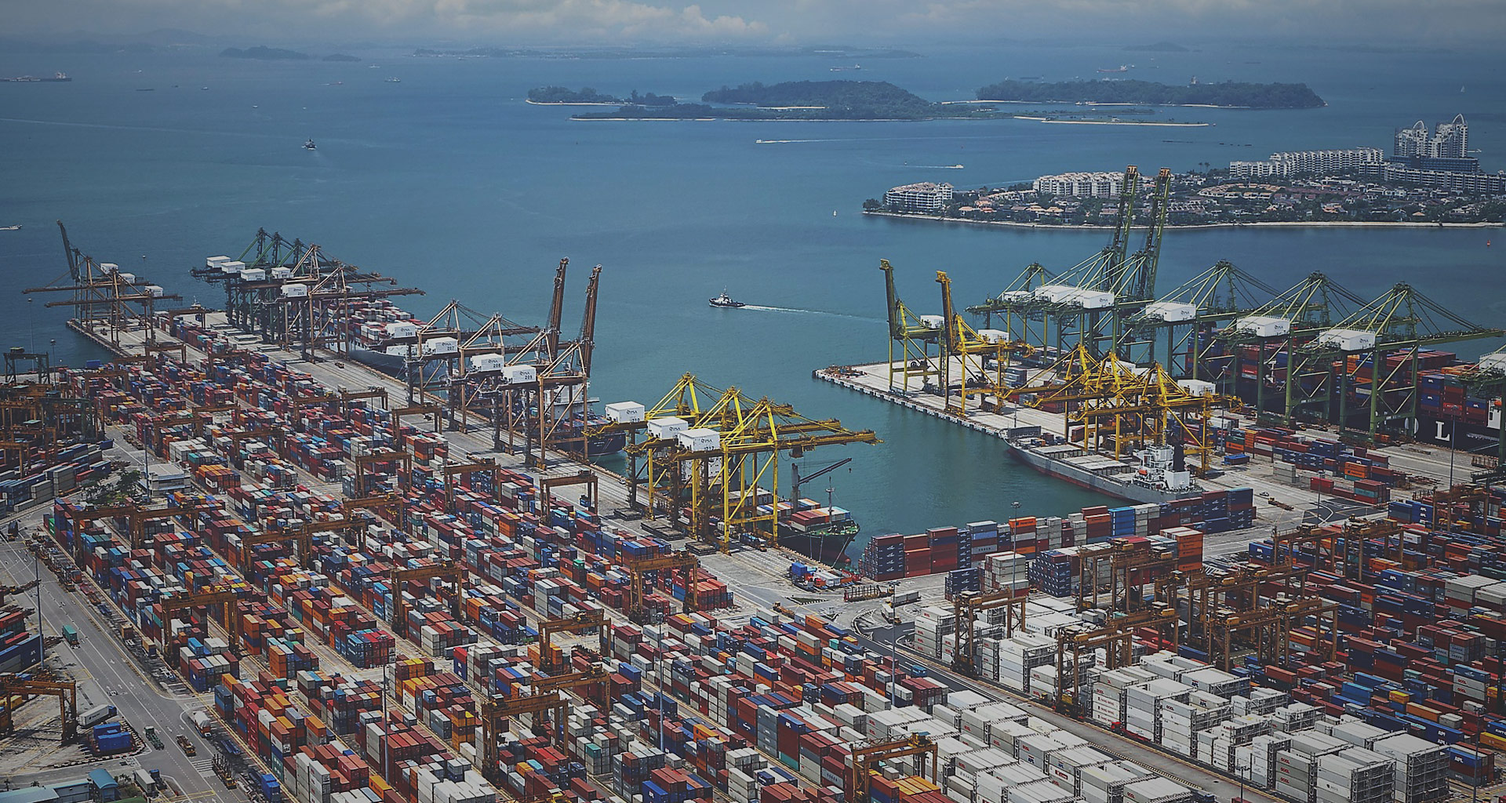
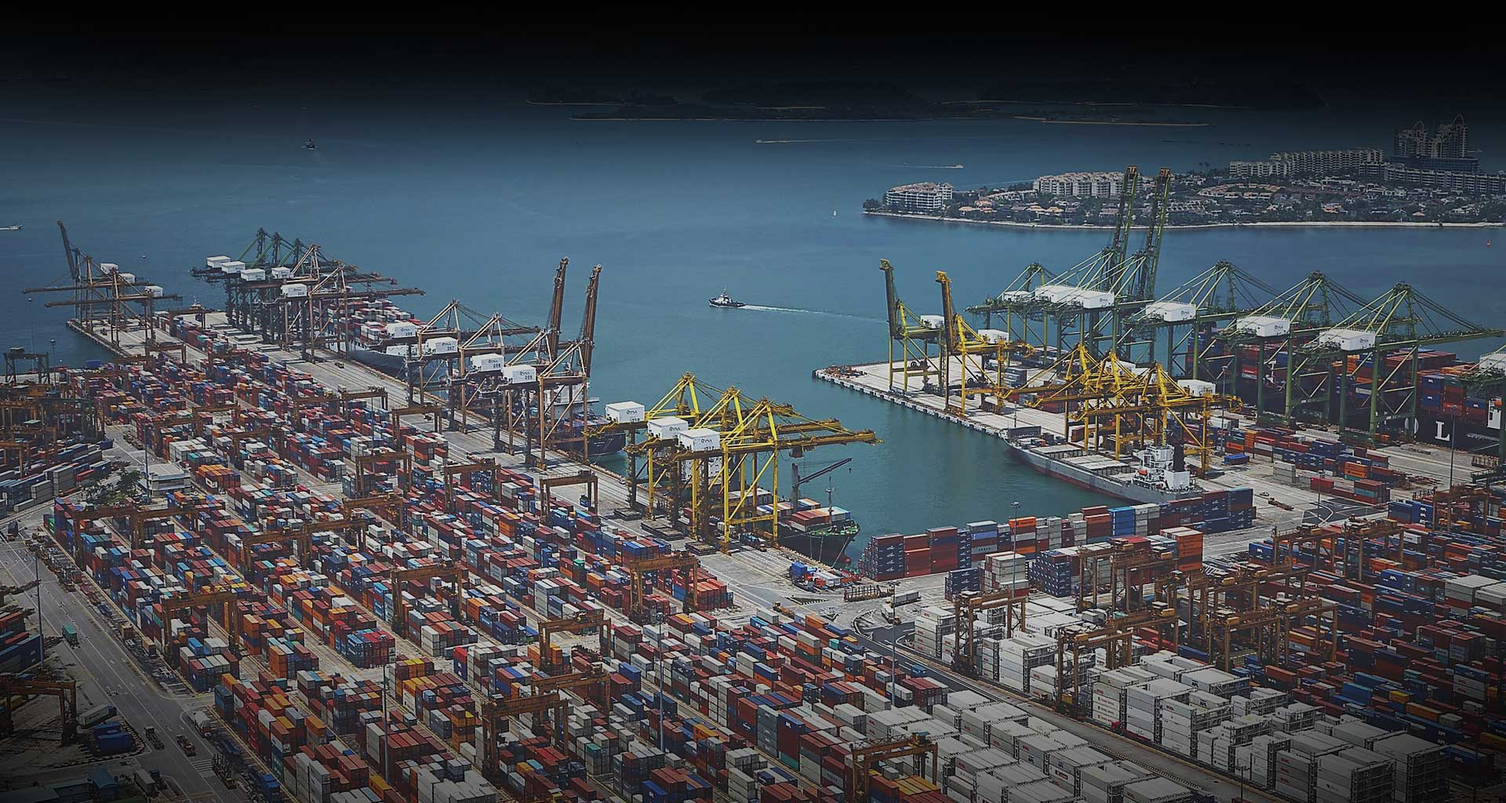
Added Images

diff --git a/public/css/style.css b/public/css/style.css
@@ -58,6 +58,44 @@ a:hover {
     background-size: cover;
 }
 /*=========================*/
+/*=========================*/
+/* M  A  I  N  C  A  R  O  U  S  E  L*/
+.main-bg-truck{
+    background-image: url("/img/broadcast/trucks.jpg");
+    background-size: cover;
+    height: 75vh;
+}
+.main-bg-ocean{
+    background-image: url("/img/broadcast/containers.jpg");
+    background-size: cover;
+    height: 75vh;
+}
+.main-bg-air{
+    background-image: url("/img/broadcast/air.jpg");
+    background-size: cover;
+    height: 75vh;
+}
+.main-bg-warehouse{
+    background-image: url("/img/broadcast/warehouse.jpg");
+    background-size: cover;
+    height: 75vh;
+}
+.bg-caption {
+    position: relative;
+    top: 75%;
+}
+.big-headings {
+    color: #f5f5f5 ;
+    text-shadow: 0px 0px 16px #5a5a5a;
+    font-size: 4.4vw ;
+}
+.big-captions {
+    color: #f5f5f5 ;
+    text-shadow: 0px 0px 16px #5a5a5a;
+    font-size: 2.4vw;
+}
+
+/*=========================*/
 
 html, body {
     background-color: #f5f5f5;
@@ -66,10 +104,15 @@ html, body {
     font-weight: 400;
     height: 100vh;
     margin: 0;
+    cursor: default;
 }
 
 .full-height {
     height: 100vh;
+}
+
+.pie-height {
+    height: 75vh;
 }
 
 .half-height {

diff --git a/public/js/main.js b/public/js/main.js
@@ -1,0 +1,10 @@
+// Custom JS
+
+// radeanf@gmail.com
+
+
+var heading = document.getElementById("heading");
+var subHeading = document.getElementById("subHeading");
+
+// TweenMax.to(heading, 6,{ opacity: 0})
+// TweenMax.to(subHeading, 10,{ opacity: 0})

diff --git a/resources/views/home.blade.php b/resources/views/home.blade.php
@@ -6,16 +6,38 @@
     <div class="full-screen" data-ride="carousel">
         <div class="tab-content" id="myTabContent">
             <div class="tab-pane fade show active" id="truck" role="tabpanel" aria-labelledby="truck-tab">
-                <img class="d-block w-100" src="img/broadcast/trucks-cover.jpg" alt="First slide">
+                <div class="d-block main-bg-truck text-center">
+                    <div class="d-none d-md-block mx-auto bg-caption">
+                        <h5 id="heading" class="big-headings">Trucks </h5>
+                        <p id="subHeading" class="big-captions">Captions</p>
+                    </div>
+                </div>
+<!--                <img class="d-block w-100" src="img/broadcast/trucks.jpg" alt="First slide">-->
+<!--                <h3 class="mx-auto " >Heading</h3>-->
             </div>
             <div class="tab-pane fade" id="air" role="tabpanel" aria-labelledby="air-tab">
-                <img class="d-block w-100" src="img/broadcast/shipping.jpg" alt="Second slide">
+                <div class="d-block main-bg-air text-center">
+                    <div class="d-none d-md-block mx-auto bg-caption">
+                        <h5 id="heading" class="big-headings">Planes</h5>
+                        <p id="subHeading" class="big-captions">Captions</p>
+                    </div>
+                </div>
             </div>
             <div class="tab-pane fade" id="ocean" role="tabpanel" aria-labelledby="ocean-tab">
-                <img class="d-block w-100" src="img/broadcast/containers.jpg" alt="Third slide">
+                <div class="d-block main-bg-ocean text-center">
+                    <div class="d-none d-md-block mx-auto bg-caption">
+                        <h5 id="heading" class="big-headings">Containers </h5>
+                        <p id="subHeading" class="big-captions">Captions</p>
+                    </div>
+                </div>
             </div>
             <div class="tab-pane fade" id="warehouse" role="tabpanel" aria-labelledby="warehouse-tab">
-                <img class="d-block w-100" src="img/broadcast/trucks.jpg" alt="First slide">
+                <div class="d-block main-bg-warehouse text-center">
+                    <div class="d-none d-md-block mx-auto bg-caption">
+                        <h5 id="heading" class="big-headings">Warehouses </h5>
+                        <p id="subHeading" class="big-captions">Captions</p>
+                    </div>
+                </div>
             </div>
             <ul class="nav nav-tabs bg-transparent nav-justified text-dark" id="myTab" role="tablist">
                 <li class="nav-item active">

diff --git a/resources/views/layout.blade.php b/resources/views/layout.blade.php
@@ -61,7 +61,7 @@
                         <li class="nav-item px-2 dropdown" >
                             <h5 class="font-weight-bold" data-toggle="dropdown" role="button" aria-haspopup="true" aria-expanded="false"><a class="nav-link dropdown-toggle">Services</a></h5>
                             <div class="dropdown-menu">
-                                <a class="dropdown-item" href="/services/hms"><h5 class="font-weight-bold">HMM (Hyundai Merchant Marine)</h5></a>
+                                <a class="dropdown-item" href="/services/hmm"><h5 class="font-weight-bold">HMM (Hyundai Merchant Marine)</h5></a>
                                 <a class="dropdown-item" href="/services"><h5 class="font-weight-bold">Perma Shipping Line</h5></a>
                                 <a class="dropdown-item" href="/services"><h5 class="font-weight-bold">EUKOR Car Carrier Inc</h5></a>
                                 <a class="dropdown-item" href="/services"><h5 class="font-weight-bold">Hyundai Glovis</h5></a>
@@ -193,8 +193,11 @@
         </div>
     </div>
 </div>
-
+<!--GSAP-->
+<script src="https://cdnjs.cloudflare.com/ajax/libs/gsap/2.0.1/TweenMax.min.js"></script>
+<!--CUSTOM-->
 <script src="{{ url('/') }}/js/app.js"></script>
+<script src="{{ url('/') }}/js/main.js"></script>
 </body>
 </html>
 

diff --git a/resources/views/services/hmm.blade.php b/resources/views/services/hmm.blade.php
@@ -6,7 +6,7 @@
     <div class="container-fluid">
         <!--Page BGS Image-->
         <div class="row">
-            <div class="col-sm-12 bgs hmmBG half-height">
+            <div class="col-sm-12 bgs hmmBG half-height p-5">
                 <div class="mx-auto p-5 mt-5 text-dark" style="width: fit-content;">
                     <h1 style="font-size: 3.25rem;" class="font-weight-bold text-white">Hyundai Merchant Marine CO., LTD.</h1>
                 </div>
